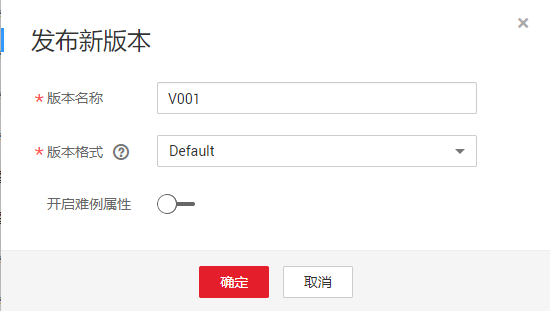
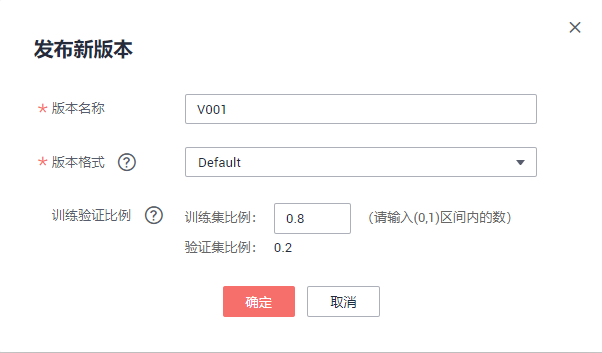
update trian resource (#1732)
* Update README.md

* Update README.md

* Delete 一键模型上线3.png

* Add files via upload

* Update README.md

* Update readme.md

* Delete 发布数据集2.png

* Add files via upload

* Delete 发布数据集.png

* Add files via upload

* Update README.md

* Update readme.md

diff --git a/train_inference/Foods_Recognition_Builtin_Algorithm/README.md b/train_inference/Foods_Recognition_Builtin_Algorithm/README.md
@@ -54,7 +54,7 @@ ModelArts自动学习具有零代码、零AI背景、泛化能力强的特点，
 
 ### 创建数据集
 
-点击[此链接](https://console.huaweicloud.com/modelarts/?region=cn-north-4#/manage/dataLabel_Beta)，进入ModelArts数据集。请确保区域在“华北-北京四”，本案例所有操作在“华北-北京四”。
+点击[此链接](https://console.huaweicloud.com/modelarts/?region=cn-north-4#/dataset)，进入ModelArts数据集。请确保区域在“华北-北京四”，本案例所有操作在“华北-北京四”。
 
 点击页面上的“创建数据集”按钮， 创建数据集页面填写示例如下：
 
@@ -106,7 +106,7 @@ ModelArts自动学习具有零代码、零AI背景、泛化能力强的特点，
 
 
 
-点击“发布”按钮，发布数据集：
+训练集比例填写0.8，点击“发布”按钮，发布数据集：
 
 ![food](./img/发布数据集.png)
 
@@ -146,7 +146,7 @@ ModelArts自动学习具有零代码、零AI背景、泛化能力强的特点，
 
 类型：GPU
 
-规格：`CPU：8 核 64GiB GPU：1 * nvidia-p100 16GiB`
+规格：`CPU：8 核 64GiB GPU：1 * nvidia-v100 32GiB` 
 
 计算节点：1
 
@@ -160,13 +160,13 @@ ModelArts自动学习具有零代码、零AI背景、泛化能力强的特点，
 
 填写好这些参数后，点击“下一步”按钮，确认参数无误，然后提交“提交”按钮。
 
-一键模型上线任务包含了三个子任务，首先会在[训练作业](https://console.huaweicloud.com/modelarts/?region=cn-north-4#/manage/trainingjobs)中创建一个训练作业，会训练得到一个模型，然后将训练所得模型导入到[模型管理](https://console.huaweicloud.com/modelarts/?region=cn-north-4#/manage/models/)中，最后将模型在[在线服务](https://console.huaweicloud.com/modelarts/?region=cn-north-4#/manage/webservice/real-time)中部署为一个在线API服务。以一键模型上线任务的名称为前缀可以找到这些任务。
+一键模型上线任务包含了三个子任务，首先会在[训练作业](https://console.huaweicloud.com/modelarts/?region=cn-north-4#/trainingJobs)中创建一个训练作业，会训练得到一个模型，然后将训练所得模型导入到[模型管理](https://console.huaweicloud.com/modelarts/?region=cn-north-4#/model?activeTab=myModels)中，最后将模型在[在线服务](https://console.huaweicloud.com/modelarts/?region=cn-north-4#/webservice/realTimeService)中部署为一个在线API服务。以一键模型上线任务的名称为前缀可以找到这些任务。
 
 训练作业耗时5分钟左右，模型导入耗时3分钟左右，启动在线服务耗时5分钟作业。
 
 ### 查看训练作业
 
-点击进入[训练作业](https://console.huaweicloud.com/modelarts/?region=cn-north-4#/manage/trainingjobs)，通过一键模型上线任务的名称找到对应的训练作业，点击作业名称进入作业详情。
+点击进入[训练作业](https://console.huaweicloud.com/modelarts/?region=cn-north-4#/trainingJobs)，通过一键模型上线任务的名称找到对应的训练作业，点击作业名称进入作业详情。
 
 “配置信息”页面展示了训练作业的配置详情：
 
@@ -180,7 +180,7 @@ ModelArts自动学习具有零代码、零AI背景、泛化能力强的特点，
 
 在线服务的本质是RESTful API，可以通过HTTP请求访问，在本案例中，我们直接在网页上访问在线服务。
 
-使用一键模型上线任务的名称为前缀，在[在线服务](https://console.huaweicloud.com/modelarts/?region=cn-north-4#/manage/webservice/real-time)中找到相应的在线服务，等待启动成功。
+使用一键模型上线任务的名称为前缀，在[在线服务](https://console.huaweicloud.com/modelarts/?region=cn-north-4#/webservice/realTimeService)中找到相应的在线服务，等待启动成功。
 
 然后点击“预测”按钮，进入在线服务预测页面。如下图所示：
 
